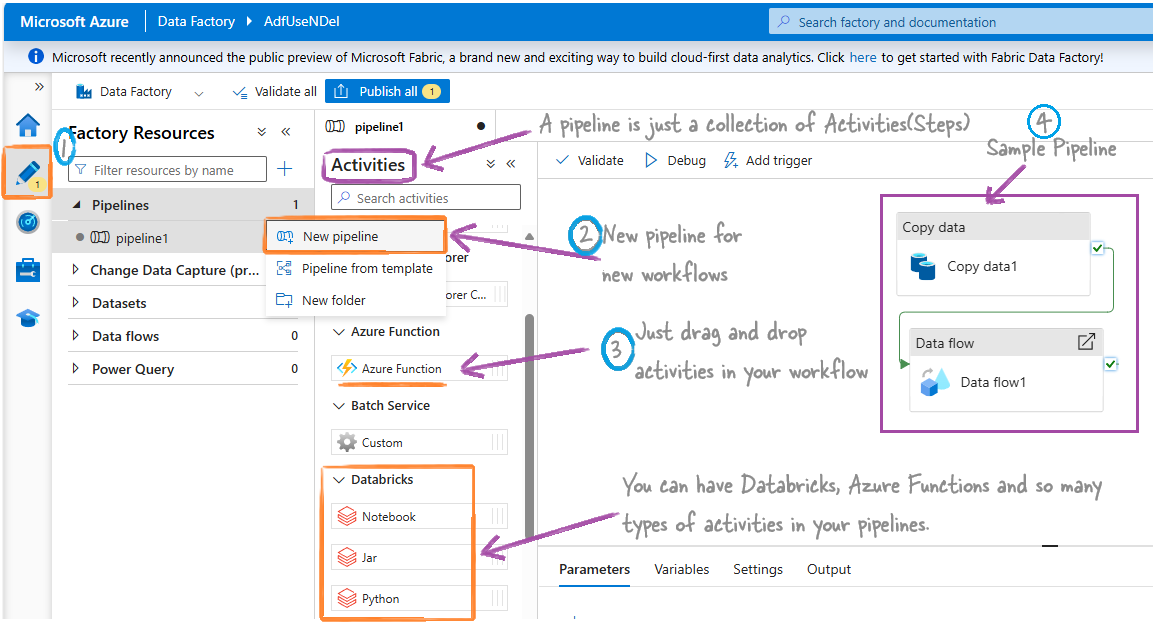
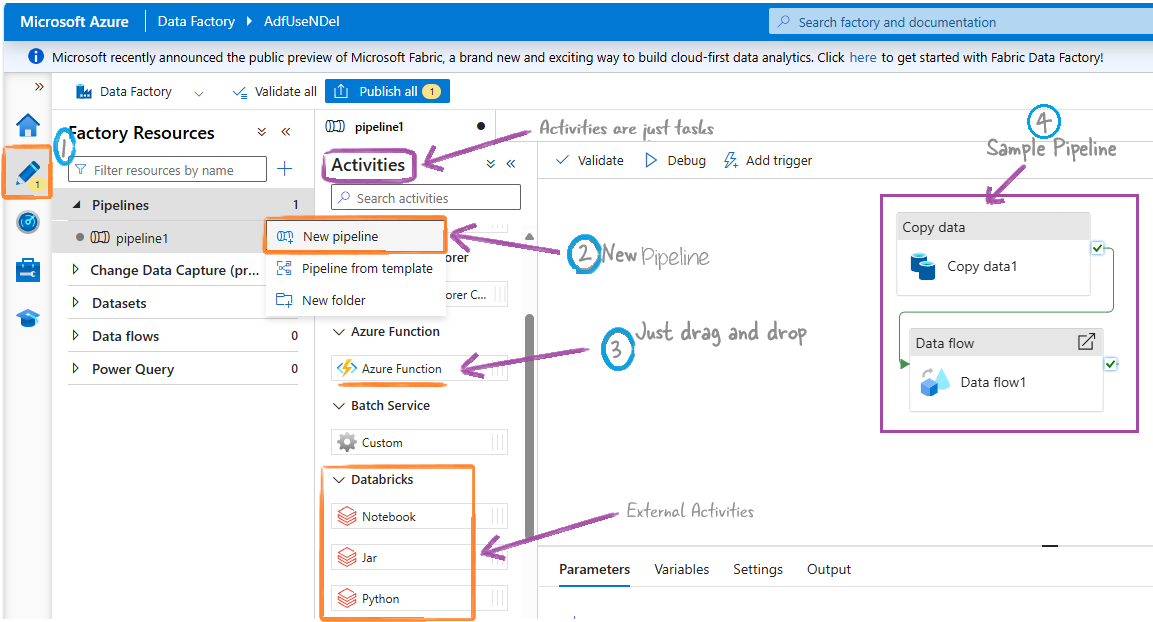
modified:   articles/Synapse-ADF/images/custom-image-2024-07-28-17-29-43.png

diff --git a/articles/Synapse-ADF/ETL Pipelines.md b/articles/Synapse-ADF/ETL Pipelines.md
@@ -5,10 +5,13 @@ parent: SynapseAnalytics
 nav_order: 1
 ---
 
-- [Synapse ETL Pipelines](#synapse-etl-pipelines)
-  - [Activities](#activities)
-    - [Copy data](#copy-data)
-    - [Data flow](#data-flow)
+- [Pipelines](#pipelines)
+- [Activities](#activities)
+  - [Copy data Activity](#copy-data-activity)
+    - [Copy data tool](#copy-data-tool)
+      - [Built-in copy task](#built-in-copy-task)
+      - [Metadata-driven copy task](#metadata-driven-copy-task)
+  - [Data flow Activity](#data-flow-activity)
     - [Other Activities](#other-activities)
     - [Control Flow Activities](#control-flow-activities)
     - [Additional Activities](#additional-activities)
@@ -16,41 +19,65 @@ nav_order: 1
   - [Linked Service](#linked-service)
   - [Datasets](#datasets)
 
-#  <span style="font-family: 'Trebuchet MS', Helvetica, sans-serif; color: #2E75B6;font-size: 2.0 em">Synapse ETL Pipelines</span>
+#  <span style="font-family: 'Trebuchet MS', Helvetica, sans-serif; color: #2E75B6;font-size: 2.0 em">Pipelines</span>
 
 
 <div style="display: flex; justify-content: center; align-items: center; margin: 5px;">
     <div style="padding: 5px; border: 1px solid #ddd; box-shadow: 3px 3px 10px rgba(0, 0, 0, 0.3); border-radius: 5px; background-color: #ffeb3b; margin: 3px;font-family: 'Comic Sans MS', sans-serif;">
-        <span style="font-size: 1.2em; font-weight: bold;font-family: 'Courier New', Courier, monospace;">In Synapse or ADF, a pipeline is simply a workflow. It's a collection of activities.</span>
+        <span style="font-size: 1.2em; font-weight: bold;font-family: 'Courier New', Courier, monospace;">Pipeline = Workflow = Collection of Activities</span>
     </div>
 </div>
 
 
 <img src="images/custom-image-2024-07-28-17-29-43.png" style="box-shadow: 10px 10px 20px rgba(0, 0, 0, 0.5); border: none; border-radius: 10px;">
 
+<br>
 
-##  <span style="font-family: 'Trebuchet MS', Helvetica, sans-serif; color: #2E75B6;">Activities</span>
+#  <span style="font-family: 'Trebuchet MS', Helvetica, sans-serif; color: #2E75B6;">Activities</span>
 
 <div style="display: flex; justify-content: center; align-items: center; margin: 5px;">
     <div style="padding: 5px; border: 1px solid #ddd; box-shadow: 3px 3px 10px rgba(0, 0, 0, 0.3); border-radius: 5px; background-color: #000000; margin: 3px;font-family: 'Comic Sans MS', sans-serif;">
-        <span style="font-size: 1.2em;color: #fff; font-weight: bold;font-family: 'Courier New', Courier, monospace;">These are just the tasks/steps in a pipeline.</span>
+        <span style="font-size: 1.2em;color: #fff; font-weight: bold;font-family: 'Courier New', Courier, monospace;">Activities = Steps/Tasks in a Pipeline</span>
     </div>
 </div>
 
 
-### Copy data 
+## <span style="font-family: 'Trebuchet MS', Helvetica, sans-serif; color: #2E75B6;">[Copy data Activity](https://learn.microsoft.com/en-us/azure/data-factory/copy-activity-overview)</span>
 
-This lets you import data into the cloud. It's so important that you can build a project using just this activity. [Learn more](https://learn.microsoft.com/en-us/azure/data-factory/copy-activity-overview).
-
-![]()
-
+Copy data step/task copies data from here to there in the cloud. It's a `data import tool`. This is one of the most important activities in pipelines. Some projects have only this step doing all the work.
 
 <img src="images/custom-image-2024-07-28-17-53-39.png" style="box-shadow: 10px 10px 20px rgba(0, 0, 0, 0.5); border: none; border-radius: 10px;">
 
+### [Copy data tool](https://learn.microsoft.com/en-us/azure/data-factory/quickstart-hello-world-copy-data-tool)
 
-### [Data flow](https://learn.microsoft.com/en-us/azure/data-factory/transform-data)
-- **Data flow:** The most important activity for data transformation.
-  - **Mapping Data Flows:** Use a GUI to create data transformation steps. Azure runs these on a behind-the-scenes Spark cluster managed by Azure. [Learn more](https://learn.microsoft.com/en-us/training/modules/code-free-transformation-scale/4-author-azure-data-factory-mapping-data-flow).
+The Copy data tool is a GUI to make the Copy data activity easier. Using this GUI you can create a pipeline using just Next, Next. It has two type of tasks.
+
+<img src="images/custom-image-2024-07-28-21-10-14.png" style="box-shadow: 10px 10px 20px rgba(0, 0, 0, 0.5); border: none; border-radius: 10px;">
+
+
+#### [Built-in copy task](https://learn.microsoft.com/en-us/azure/data-factory/quickstart-hello-world-copy-data-tool)
+
+This method is enough for almost all cases. It's the original method. Just click 'next' using the tool, and ADF will take care of everything else.
+
+But, this is suitable for situations where we have fixed sources and fixed destinations.
+
+**Example:** Copying Data between two Azure SQL Databases. Azure Blob storage to Azure SQL Databases etc.
+
+#### [Metadata-driven copy task](https://learn.microsoft.com/en-us/azure/data-factory/copy-data-tool-metadata-driven)
+
+This method is for very large and complex situations. For example, copying hundreds of tables from an on-prem SQL Server to Azure Data Lake Storage (ADLS), with the list of tables and their destinations managed in a control table.
+
+
+**Example:**
+Imagine you have an on-premises SQL Server with hundreds of tables. You want to copy these tables to ADLS. Instead of creating individual copy tasks for each table, you create a control table that lists all the source tables and their corresponding destinations. ADF then uses this control table to dynamically copy each table to the specified destination.
+
+## <span style="font-family: 'Trebuchet MS', Helvetica, sans-serif; color: #2E75B6;">[Data flow Activity](https://learn.microsoft.com/en-us/azure/data-factory/transform-data)</span>
+
+This is also the most important activity in Pipelines. Using this you create the transformation work.
+
+There are two types of Data flow activities:
+
+  - **Mapping Data Flows:** This is the common data flow activity which we usually use. Here we use a  GUI to create data transformation steps. Azure runs these on a behind-the-scenes Spark cluster managed by Azure. [Learn more](https://learn.microsoft.com/en-us/training/modules/code-free-transformation-scale/4-author-azure-data-factory-mapping-data-flow).
   - **Wrangling Data Flows:** Use Excel-like Power Query for data preparation, integrating with Power Query Online and using Spark for execution.
 
 Now, if you want to bypass ADF and do your own coding, manage your own env etc you you can use these activities.

diff --git a/articles/Synapse-ADF/Copy-data-tool.md b/articles/Synapse-ADF/Copy-data-tool.md
@@ -1,0 +1,64 @@
+The built-in copy task in Azure Data Factory can be used in the following typical scenarios.
+
+### 1. **Copying Data Between Azure SQL Databases**
+
+You have two Azure SQL Databases, and you need to copy data from a table in the first database to a table in the second database. The schema is the same, and you want to transfer data regularly, such as every day.
+
+**Example Use Case:**
+- **Source:** Azure SQL Database (Table: SalesData)
+- **Destination:** Azure SQL Database (Table: SalesDataBackup)
+- **Steps:** Use the built-in copy task to set up a daily data copy job.
+
+### 2. **Copying Data from Azure Blob Storage to Azure SQL Database**
+
+You have CSV files stored in Azure Blob Storage and you need to load this data into a table in an Azure SQL Database.
+
+**Example Use Case:**
+- **Source:** Azure Blob Storage (CSV file: customer_data.csv)
+- **Destination:** Azure SQL Database (Table: Customers)
+- **Steps:** Use the built-in copy task to map the CSV columns to the SQL table columns and set up a regular copy job.
+
+### 3. **Copying Data from On-Premises SQL Server to Azure Data Lake Storage (ADLS)**
+
+You have an on-premises SQL Server database and you need to copy data to Azure Data Lake Storage for further analysis.
+
+**Example Use Case:**
+- **Source:** On-Premises SQL Server (Table: EmployeeRecords)
+- **Destination:** Azure Data Lake Storage (Folder: EmployeeData)
+- **Steps:** Set up a self-hosted integration runtime, then use the built-in copy task to move data from the on-premises server to ADLS.
+
+### 4. **Copying Data from One Azure Blob Storage Container to Another**
+
+You want to copy files from one container in Azure Blob Storage to another container, perhaps for archival purposes.
+
+**Example Use Case:**
+- **Source:** Azure Blob Storage (Container: raw-data)
+- **Destination:** Azure Blob Storage (Container: archived-data)
+- **Steps:** Use the built-in copy task to set up the copy job and configure it to run on a schedule.
+
+### 5. **Copying Data from Azure Table Storage to Azure SQL Database**
+
+You have data in Azure Table Storage and you want to migrate this data to an Azure SQL Database.
+
+**Example Use Case:**
+- **Source:** Azure Table Storage (Table: Orders)
+- **Destination:** Azure SQL Database (Table: Orders)
+- **Steps:** Use the built-in copy task to configure the source and destination, mapping the columns appropriately.
+
+### 6. **Copying Data from REST API to Azure SQL Database**
+
+You need to fetch data from a REST API and load it into an Azure SQL Database table.
+
+**Example Use Case:**
+- **Source:** REST API (Endpoint: https://api.example.com/data)
+- **Destination:** Azure SQL Database (Table: ApiData)
+- **Steps:** Use the built-in copy task to connect to the REST API, transform the JSON data as needed, and load it into the SQL table.
+
+### 7. **Copying Data from Azure Cosmos DB to Azure SQL Database**
+
+You have data in Azure Cosmos DB and need to transfer it to an Azure SQL Database for reporting purposes.
+
+**Example Use Case:**
+- **Source:** Azure Cosmos DB (Collection: Users)
+- **Destination:** Azure SQL Database (Table: Users)
+- **Steps:** Use the built-in copy task to map the Cosmos DB documents to the SQL table columns.
